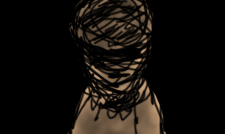
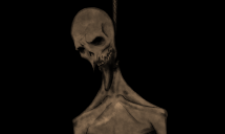
updated hangman image

Changed region(s): [[0.28, 0.0, 0.7467, 1.0], [0.4356, 0.9552, 0.4667, 0.9851]]

diff --git a/scripts/game_logic.py b/scripts/game_logic.py
@@ -56,8 +56,8 @@ class GAME_LOGIC:
         VISUALS.vignette = 5.
 
         cls.HOUR_DURATION = 60.
-        cls.remaining_time = 3.  # TODO: set to 30
-        cls.hour = 9  # TODO: set to 0
+        cls.remaining_time = 30.
+        cls.hour = 0
 
         cls.PLAYER = Player()
         cls.RAY_CASTER = RayCaster()
@@ -93,6 +93,7 @@ class GAME_LOGIC:
         if cls.ENDLESS:
             for i in range(8):
                 list(cls.monster_list.values())[i].aggressiveness = 5  # type: Monster
+
         # cls.monster_list["Hangman"].aggressiveness = 20
         # cls.monster_list["Mimic"].aggressiveness = 20
         # cls.monster_list["Crawler"].aggressiveness = 20
@@ -122,9 +123,9 @@ class GAME_LOGIC:
         if not cls.ENDLESS:
             cls.interaction_list.append(BabyPhone((-1.5, 1.1, 2.7)))
 
-        # TEXT.replace("Inspect the room with the MOUSE.", duration=3, fade_out=0, force=True)
-        # TEXT.add("Move with WASD.", duration=3, fade_out=0, force=True)
-        # TEXT.add("Interact with LEFT CLICK.", force=True)
+        TEXT.replace("Inspect the room with the MOUSE.", duration=3, fade_out=0, force=True)
+        TEXT.add("Move with WASD.", duration=3, fade_out=0, force=True)
+        TEXT.add("Interact with LEFT CLICK.", force=True)
 
         VISUALS.madness = 0
 

diff --git a/scripts/game_over.py b/scripts/game_over.py
@@ -43,8 +43,9 @@ class GAME_OVER_SCREEN:
             from scripts.main_menu import MAIN_MENU
             if not MAIN_MENU.main_game_beaten:
                 MAIN_MENU.main_game_beaten = True
-                TEXT.replace("", duration=2.0, fade_out=0, color=(50, 100, 50), size=32)
-                TEXT.add("Endless mode unlocked.", duration=25, fade_out=5, color=(50, 100, 50), size=32)
+                MAIN_MENU.reload_buttons()
+                TEXT.replace("", duration=3.0, fade_out=0, size=32)
+                TEXT.add("Endless mode unlocked.", duration=25, fade_out=5, color=(50, 150, 50), size=16)
                 with open("save.txt", "w") as file:
                     file.write("True\n0")
 
@@ -66,7 +67,7 @@ class GAME_OVER_SCREEN:
             if cls.killer:
                 DISPLAY.screen.blit(cls.screen, (0, 0))
             else:
-                if not randint(1, int(5 / DISPLAY.delta_time)):
+                if not randint(0, int(4 / DISPLAY.delta_time)):
                     DISPLAY.screen.blit(cls.ew_win_image, (0, 0))
                 else:
                     DISPLAY.screen.blit(cls.win_image, (0, 0))

diff --git a/scripts/main_menu.py b/scripts/main_menu.py
@@ -27,18 +27,22 @@ class MAIN_MENU:
     pressing_down: bool = False
 
     main_game_beaten: bool = False
-    endless_mode_score: int = 0
+    endless_mode_score: int = 0.
 
     quality: int = 1
 
-    BUTTONS: list[Button] = [
-        Button("play", 243, 116),
-        Button("endless", 243, 185) if main_game_beaten else Button("endless_blocked", 243, 185),
-        Button("quit", 243, 260),
-        Button("graphism2", 40, 310),
-    ]
+    BUTTONS: list[Button]
 
     white_noise: Sound = Sound(join_path("data", "sounds", "sfx", "white_noise_hit.ogg"))
+
+    @classmethod
+    def reload_buttons(cls):
+        cls.BUTTONS: list[Button] = [
+            Button("play", 243, 116),
+            Button("endless", 243, 185) if cls.main_game_beaten else Button("endless_blocked", 243, 185),
+            Button("quit", 243, 260),
+            Button("graphism2", 40, 310),
+        ]
 
     @classmethod
     def update(cls) -> None:
@@ -95,3 +99,7 @@ try:
         MAIN_MENU.endless_mode_score = int(content[1])
 except FileNotFoundError:
     pass
+
+
+MAIN_MENU.reload_buttons()
+

diff --git a/scripts/monsters.py b/scripts/monsters.py
@@ -39,12 +39,12 @@ class Hangman(Monster):
         super().__init__(*args, **kwargs)
         self.madness: int = 0
 
-        self.image = load_image("data", "images", "monsters", "hangman.png")
+        self.image = load_image("data", "images", "monsters", "The_sinner.png")
         self.x = 0
         self.y = 2.0
         self.z = 0
         self.width = 1
-        self.height = 2.5
+        self.height = 2.7
         self.state = 0
         self.timer = 30.
 
@@ -117,7 +117,7 @@ class Hangman(Monster):
                 GAME_LOGIC.RAY_CASTER,
                 GAME_LOGIC.PLAYER,
                 self.image,
-                (self.x + sin(self.timer) / 10, 0.5 + self.y, self.z),
+                (self.x + sin(self.timer) / 10, 0.3 + self.y, self.z),
                 self.width,
                 self.height,
             )
